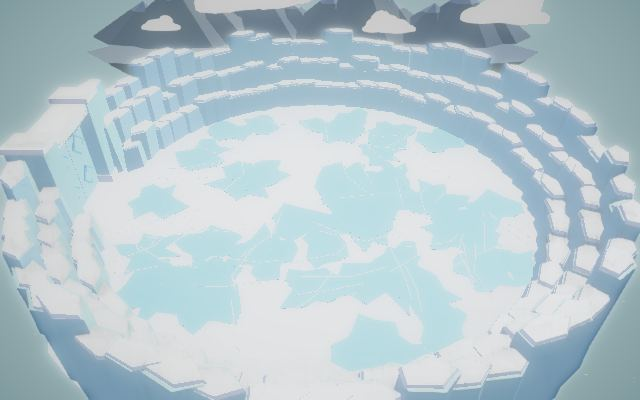
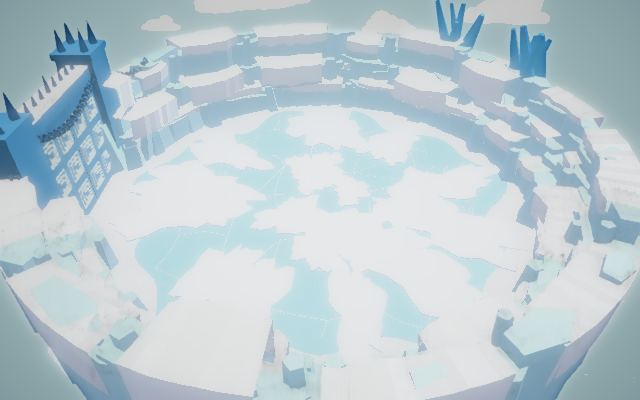
loop(574): maps_2 9/11 gaps approved

diff --git a/loop/STATE.md b/loop/STATE.md
@@ -1,5 +1,5 @@
 # Loop state (v10: maps then stages; two batch audits merged; up to 9 structural/rebuild gaps + 1 eligible polish; fresh CONFIRM before done)
-Iteration: 573   Batch: maps_2   Consecutive empty: 0   Done: 7/99   Parked: 0
+Iteration: 574   Batch: maps_2   Consecutive empty: 0   Done: 8/99   Parked: 0
 Batches, in order: maps_1, maps_2, maps_3, maps_4, stages_introduction, stages_adventure, stages_challenge, stages_dynasty, stages_renaissance, stages_pirate, stages_spooky, stages_simulation, stages_wild_west, stages_legacy, stages_fantasy_good, stages_fantasy_evil
 <!-- Item file template, loop/items/<id>.md (map: map.<id>; stage: <campaign>.<level>):
 # <id>
@@ -17,7 +17,7 @@ Marks below: one per criterion a b c (+ pass, - fail, ? unscored); map a look, b
 
 ## Scoreboard (a b c as + pass, - fail, ? unscored; status q queued, o open, D done, p parked)
 maps_1: tribal_1 +++ D | tribal_2 +++ D | tribal_sandbox +++ D | farmer_1 +++ D | farmer_2 +++ D | farmer_snow +++ D
-maps_2: medieval_1 +++ D | medieval_2 -++ o | ancient_1 --+ o | ancient_2 +-+ o | ancient_sandbox -++ o | viking +-+ o | viking_sandbox -++ o
+maps_2: medieval_1 +++ D | medieval_2 -++ o | ancient_1 --+ o | ancient_2 -++ o | ancient_sandbox -++ o | viking +-+ o | viking_sandbox +++ D
 maps_3: dynasty ??? q | renaissance ??? q | pirate ??? q | spooky_1 ??? q | spooky_2 ??? q | wild_west ??? q | legacy ??? q
 maps_4: fantasy_good ??? q | fantasy_evil ??? q | simulation ??? q | bridge ??? q | hill ??? q | corridor ??? q | defend_the_castle ??? q | high_ground ??? q | low_ground ??? q
 stages_introduction: clubs ??? q | army ??? q | hay_and_pitchforks ??? q | basic_formation ??? q | ice_archers_only_almost ??? q | longships ??? q
@@ -33,52 +33,59 @@ stages_legacy: siege ??? q | a_tank ??? q | the_war ??? q | thor_s_battle ??? q
 stages_fantasy_good: colossal_spike ??? q | royal_archers ??? q | clash_of_warriors ??? q | chaotic_cavalry ??? q | vicious_terror ??? q | fortified_formation ??? q
 stages_fantasy_evil: encircling_tribe ??? q | raze_the_homestead ??? q | farmer_uprising_evil ??? q | storm_the_fortress ??? q | blasted_skirmish ??? q | dismantle_the_spears ??? q
 
-## Focus (iter 573: maps_1+maps_2, 9 [S] + 1 [R]; BASE 509a4b40 after evidence 509a4b40 (ancient_1 battle pose))
-- [R] map.farmer_snow.a blockers 1-3 lavender snow, corner trees, slate band (94ecffc7+cd93dfb2) APPROVE, struck a1-a3 (a PASS; CONFIRM passed: D)
-- [S] map.viking.b blocker 2 raised snowbanks (264fb953) APPROVE, no strike
-- [S] map.viking.a blocker 5 ice underside (c44dc74a) APPROVE, struck a5
-- [S] map.viking.a blocker 6 frozen waterfall (f74d311d) APPROVE, struck a6 (a PASS; CONFIRM passed a, b)
-- [S] map.ancient_sandbox.b blocker 1 outer shelves and headlands (d11426f4) APPROVE, struck b1
-- [S] map.ancient_sandbox.b blocker 4 offshore islets (b82dd7b7) APPROVE, struck b4 (b PASS; CONFIRM passed b, failed a)
-- [S] map.ancient_2.b blocker 1 world-space remap (f5374621) dropped: shelf unchanged, reverted 8231cf32
-- [S] map.ancient_2.a blocker 4 earth drum (cc91f4d4) APPROVE, struck a4
-- [S] map.ancient_2.a blocker 5 gate pavilions (0f5ada56) APPROVE, struck a5 (a PASS, pending CONFIRM)
-- [S] map.ancient_1.a blocker 1 clear blue sky (61adfc2c) APPROVE, struck a1
-- 9/10, 10 struck
+## Focus (iter 574: maps_2, 9 [S] + 1 [P] + 1 [R]; BASE ae94bb09 after evidence ae94bb09 (ancient_1 battle framed on the player army))
+- [S] map.ancient_2.b blocker 1 floor trim via fresh buffer, lawn out of glow (4f1be279+bff14f83) APPROVE, struck b1
+- [S] map.ancient_2.b blocker 4 open front propylon (15c6c224) APPROVE, struck b4 (b PASS; CONFIRM passed b, failed a)
+- [S] map.ancient_sandbox.a blocker 1 clear sky (a472ad38) APPROVE, struck a1
+- [S] map.ancient_sandbox.a blocker 3 sandstone rocks and steps (ae0499eb) APPROVE, struck a3
+- [S] map.ancient_sandbox.a blocker 5 hazy graded sea (452ef25d+7ac51041) APPROVE, struck a5
+- [S] map.ancient_1.b blocker 1 outer house rows (536b4f76) APPROVE, struck b1, b3, b5
+- [S] map.ancient_1.a blocker 3 separate houses and alley stairs (422bf815) APPROVE, struck a3 and b2
+- [S] map.ancient_1.a blocker 2 flagstone paving (e03012d5+e3d80f84) APPROVE, struck a2; added a7 (too dark)
+- [S] map.viking.b blocker 2 bank face and shore rocks (fdb5043b) REJECT, reverted 3e63a5aa
+- [P] map.viking.b blocker 2 BANK.top 4.5 (dc64fad6) REJECT, reverted 8e0d0a0c
+- [R] map.viking_sandbox.a blockers 1-3 gate, skyline, floor (ef7ca1e5) APPROVE, struck a1-a3 (CONFIRM passed: D)
+- 9/11, 14 struck
 
 ## Last verdicts (critic header lines verbatim)
-GAP: [R] map.farmer_snow (94ecffc7 + cd93dfb2)
+GAP: [S] map.ancient_2 (4f1be279 + bff14f83)
 VERDICT: APPROVE
-CRITERION: map.farmer_snow.a PASS   (previous: FAIL)
-GAP: [S] map.viking (264fb953)
+CRITERION: map.ancient_2.b FAIL   (previous: FAIL)
+GAP: [S] map.ancient_2 (15c6c224)
 VERDICT: APPROVE
-CRITERION: map.viking.b FAIL   (previous: FAIL)
-GAP: [S] map.viking (c44dc74a)
+CRITERION: map.ancient_2.b PASS   (previous: FAIL)
+GAP: [S] map.ancient_sandbox (a472ad38)
 VERDICT: APPROVE
-CRITERION: map.viking.a FAIL   (previous: FAIL)
-GAP: [S] map.viking (f74d311d)
+CRITERION: map.ancient_sandbox.a FAIL   (previous: FAIL)
+GAP: [S] map.ancient_sandbox (ae0499eb)
 VERDICT: APPROVE
-CRITERION: map.viking.a PASS   (previous: FAIL)
-GAP: [S] map.ancient_sandbox (d11426f4)
+CRITERION: map.ancient_sandbox.a FAIL   (previous: FAIL)
+GAP: [S] map.ancient_sandbox (452ef25d + 7ac51041)
 VERDICT: APPROVE
-CRITERION: map.ancient_sandbox.b FAIL   (previous: FAIL)
-GAP: [S] map.ancient_sandbox (b82dd7b7)
+CRITERION: map.ancient_sandbox.a FAIL   (previous: FAIL)
+GAP: [S] map.ancient_1 (536b4f76)
 VERDICT: APPROVE
-CRITERION: map.ancient_sandbox.b PASS   (previous: FAIL)
-GAP: [S] map.ancient_2 (cc91f4d4)
-VERDICT: APPROVE
-CRITERION: map.ancient_2.a FAIL   (previous: FAIL)
-GAP: [S] map.ancient_2 (0f5ada56)
-VERDICT: APPROVE
-CRITERION: map.ancient_2.a PASS   (previous: FAIL)
-GAP: [S] map.ancient_1 (61adfc2c)
+CRITERION: map.ancient_1.b FAIL   (previous: FAIL)
+GAP: [S] map.ancient_1 (422bf815)
 VERDICT: APPROVE
 CRITERION: map.ancient_1.a FAIL   (previous: FAIL)
-REGRESSIONS: none
+GAP: [S] map.ancient_1 (e03012d5 + e3d80f84)
+VERDICT: APPROVE
+CRITERION: map.ancient_1.a FAIL   (previous: FAIL)
+GAP: [S] map.viking (fdb5043b)
+VERDICT: REJECT
+CRITERION: map.viking.b FAIL   (previous: FAIL)
+GAP: [P] map.viking (dc64fad6)
+VERDICT: REJECT
+CRITERION: map.viking.b FAIL   (previous: FAIL)
+GAP: [R] map.viking_sandbox (ef7ca1e5)
+VERDICT: APPROVE
+CRITERION: map.viking_sandbox.a PASS   (previous: FAIL)
+REGRESSIONS: map.viking.a (PASS) -> attributed to fdb5043b and dc64fad6 (both reverted)
 
 ## Notes for next iteration (max 5 lines)
-- 573: 82+ shots, zero page errors, all script checks pass; maps_1 checkpoint: regression 12/12 GREEN, all 17 maps_1 stages re-judged a+c PASS. Farmer Snow done (CONFIRM passed a); maps_1 closed.
-- [R] queue (plateau, oldest first): Viking Sandbox a, then Medieval 2 a. Viking b needs its bank to read from the top shot (shaded face, shore rocks).
-- Ancient 2: find which mesh is the green apron past the wall with a probe before retrying b1 (the 573 world-space remap of ground/islandShelf changed nothing). Its a PASS awaits CONFIRM.
-- Ancient 1 evidence first: the battle shot (509a4b40) looks down the south street but misses the skirmish armies (zones x +-40): re-aim it onto an army on a street before picking on b.
-- Ancient Sandbox CONFIRM 573 failed a (beige sky, lawn too saturated, front boulder row, cloud over island, sea too saturated): that list is now a's blockers.
+- 574: 65 shots, zero page errors, all script checks pass (viking re-shot alone after the reverts). Viking Sandbox done (CONFIRM passed a).
+- [R] slot: Medieval 2 a (plateau, waiting since 572) takes it next iteration.
+- Viking b: bankFace went near black (normals/double-sided, weak emissive); retry with upward normals and pale vertex colours, BANK.top stays 2.4.
+- Ancient 2 a now carries the 574 CONFIRM list (beige sky, far mountains, flat temple grid, lime grass); b PASS confirmed.
+- Capture --add for map.viking also wipes map_viking_sandbox_* (filename prefix match): re-shoot both together (574 did).

diff --git a/loop/LEDGER.md b/loop/LEDGER.md
@@ -3,34 +3,7 @@
 Rows: `file:identifier | value | last iter | verdict | earlier values`. P: no approved reversal within 20 iterations; two failed polish attempts spend a row. S/R replace mechanisms. The unit phase's ledger is `loop/archive/v4/LEDGER.md`.
 
 ## Structural attempts (iter | sha | item.criterion | verdict)
-568 | 45084eee | map.tribal_sandbox.a | approved, struck a1
-568 | ee8ea992 | map.tribal_sandbox.a | approved, struck a2
-568 | d8ff6642 | map.tribal_sandbox.a | approved, struck a3
-568 | 0c5f8a08 | map.farmer_snow.a | approved, struck a3
-568 | a7c6dc9f | map.farmer_snow.a | approved, struck a4
-568 | da540cdb | map.viking_sandbox.a | approved, struck a5
-568 | 3da0c3ba | map.viking_sandbox.b | approved, struck b1
-568 | 7b27f51b | map.medieval_1.a | approved, struck a4
-568 | 6d892fbe | map.medieval_2.a | approved, struck a4
-569 | 6ddcdd19 | map.farmer_snow.a | approve, struck a5
-569 | eb3c33ae+16dc5699 | map.viking_sandbox.a | approve, struck a1
-569 | b5799593 | map.viking_sandbox.a | approve, struck a2
-569 | 2be8528a | map.viking_sandbox.a | approve, struck a3
-569 | 489d2940 | map.medieval_2.a | approve, struck a3
-569 | 41c29446 | map.medieval_2.b | approve, struck b4
-569 | 8c56cdf8 | map.medieval_2.a | approve, struck a5
-569 | 18cc0f35 | map.medieval_1.b | approve, struck b4
-569 | cdefcfc1 | map.medieval_1.a | approve, struck a3
-570 | 1371524f+24937b53 [R] | map.farmer_snow.a | approve, struck a2
-570 | 48dacf98+59b30f57 | map.medieval_1.a | approve, struck a5
-570 | 9767224d+8b7cf263+7094ea34 | map.medieval_1.b | approve, struck b5
-570 | 2980c8ce+ca101d74 | map.medieval_1.a | approve
-570 | 4e079a16 | map.medieval_2.b | approve, struck b1
-570 | 4df6e5f8 | map.medieval_2.a | approve, struck a2
-570 | 1a2024e4 | map.ancient_1.a | approve, struck a3
-570 | 18a7b03b | map.ancient_2.b | approve
-570 | c8566daa | map.ancient_sandbox.b | approve, struck b2
-570 | 23af4ed0 | map.viking.a | approve, struck a2
+570 | 10 commits (farmer_snow R, medieval_1 x3, medieval_2 x2, ancient_1, ancient_2, ancient_sandbox, viking) | all approve, struck fs a2, m1 a5 b5, m2 b1 a2, a1 a3, as b2, v a2
 571 | 2c30c0f9 | map.medieval_1.a | approve, struck a6 (a PASS; CONFIRM passed)
 571 | b3ebd6d4 | map.medieval_2.a | approve, struck a1
 571 | c12b2649 | map.medieval_2.a | approve
@@ -61,6 +34,16 @@ Rows: `file:identifier | value | last iter | verdict | earlier values`. P: no ap
 573 | cc91f4d4 | map.ancient_2.a | approve, struck a4
 573 | 0f5ada56 | map.ancient_2.a | approve, struck a5
 573 | 61adfc2c | map.ancient_1.a | approve, struck a1
+574 | 4f1be279+bff14f83 | map.ancient_2.b | approve, struck b1
+574 | 15c6c224 | map.ancient_2.b | approve, struck b4 (b PASS; CONFIRM passed b, failed a)
+574 | a472ad38 | map.ancient_sandbox.a | approve, struck a1
+574 | ae0499eb | map.ancient_sandbox.a | approve, struck a3
+574 | 452ef25d+7ac51041 | map.ancient_sandbox.a | approve, struck a5
+574 | 536b4f76 | map.ancient_1.b | approve, struck b1, b3, b5
+574 | 422bf815 | map.ancient_1.a | approve, struck a3 and b2
+574 | e03012d5+e3d80f84 | map.ancient_1.a | approve, struck a2; added a7
+574 | fdb5043b | map.viking.b | reject (bank face near black; reverted)
+574 | ef7ca1e5 [R] | map.viking_sandbox.a | approve, struck a1-a3 (CONFIRM passed: D)
 
 ## Tuned values
 web/src/map/tabs/farmer_2.ts:wheatField stalk height, step | 0.65-0.8 m, 0.75 m | 564 | approved | 0.5-0.7 m, 0.9 m; 1.0-1.3 m
@@ -127,7 +110,11 @@ web/src/map/tabs/viking.ts:winterHaze | clear (0.58,0.86,0.91), 320 flakes, mist
 web/src/map/tabs/ancient_1.ts:BANDS and STREETS | three bands x -24..24 (z -19/0/19, depth 14/16/14), streets z +-10 4 m wide | 572 | approved (CONFIRM failed b: reads as fused slab) | 2x3 blocks at x +-15
 web/src/map/tabs/ancient_1.ts:lighthouse and pebbledUnderside | 14 m octagonal tower at (-42,46); two slabs 7 m + 6 m inset, pebbles every 3.5 m | 572 | approved | absent; 11 m box slab
 web/src/map/tabs/ancient_2.ts:ringWall | 72 segments r 49.6, 1.5 m high, beige (0.78,0.68,0.5), 6 cypress clusters; ring trees removed | 572 | approved, struck a3 | autumn tree ring
-web/src/map/tabs/viking.ts:BANK, UNDER, FALL | bank 2.4 m smoothstep over 5 m past lake edge (height field); ice bowl to -26 m; crag+cascade at (0,44) | 573 | approved; bank unseen from top | absent
+web/src/map/tabs/viking.ts:BANK, UNDER, FALL | bank 2.4 m smoothstep over 5 m past lake edge (height field); ice bowl to -26 m; crag+cascade at (0,44) | 574 | top 4.5 m rejected (P 574, attempts 1); 2.4 kept | absent
+web/src/map/tabs/ancient_2.ts:crispRim and frontPropylon | floor trimmed to r 50.3 via setVerticesData, lawn out of glow; propylon 8.4 x 5.4 m at 250 deg, r 49 | 574 | approved, b PASS | apron; solid gabled box
+web/src/map/tabs/ancient_sandbox.ts:clearSky, frontSandstone, hazySea | clear (0.3,0.6,0.88) fog (0.66,0.8,0.93); 5 sandstone clusters + 2 step flights, hazeTreeline hidden; vertex-graded sea (0.3,0.55,0.76)->(0.66,0.8,0.93) | 574 | approved, struck a1 a3 a5 | beige; dark boulder chain; royal-blue disc
+web/src/map/tabs/ancient_1.ts:outerRows, houses, flagstones | 2 houses per long-wall row end x 28.5..52; 9.8 m houses with 2.2 m alleys; pavement 0.27 matte + jittered white lines | 574 | approved; pavement too dark (a7) | bands only; fused slab; (0.53,0.56,0.62) + seam grid
+web/src/map/tabs/viking_sandbox.ts:runeGate, rimCrystals, floor (R) | gate 24 x 21 m steel-teal (0.24,0.5,0.64), towers 25 m; columns 0.94-1.02 tier; crystals at 28/50 deg; ice 0.72 R, 12+12 drifts 0.25 m | 574 | approved, D | 18.7 m pillars; columns 1.2-1.45x; 5 rim peaks; ice 0.8 R, 9+7 drifts
 web/src/map/tabs/ancient_sandbox.ts:SHELVES and ISLETS | 10 lobes 9-25 m out, tops -2.5..-7; 5 islets 75-150 m out | 573 | approved, b PASS | absent
 web/src/map/tabs/ancient_2.ts:earthDrum and PAVILIONS | drum r 51 to -17 m, 110 stones; pavilions at 188/250/320 deg | 573 | approved, a PASS | navy slab; absent
 web/src/map/tabs/ancient_1.ts:clearSky | clear (0.3,0.6,0.88), fog (0.66,0.8,0.93) | 573 | approved | inherited beige

diff --git a/loop/items/map.ancient_1.md b/loop/items/map.ancient_1.md
@@ -1,20 +1,25 @@
 # map.ancient_1
 Status: open   Audited: 562 (AUDIT x2), 572 (CONFIRM: passed none; failed a, b)   Done: -
 ## Verdicts
-a FAIL (573: struck 1): 2. pale lavender-blue tinted street ground in map_ancient_1_top — TABS: mid-grey paving split by white flagstone lines (ref: reference/maps/wiki/ancient_1.png) 3. town drawn as one fused white slab with domes on top in map_ancient_1_top — TABS: separate whitewashed houses with flat roofs, stairs and blue doors/shutters (ref: reference/maps/wiki/ancient_1.png) 4. thin blue rail edging the field in map_ancient_1_island — TABS: low white parapet wall with blue tile coping (ref: reference/maps/wiki/ancient_1.png) 5. lone grass tufts at the field corners in map_ancient_1_top — TABS: cypress clusters in raised white planters along the wall (ref: reference/maps/wiki/ancient_1.png) 6. bare streets and rooftops in map_ancient_1_ground — TABS: pots, barrels, pink-blossom and olive shrubs dressing roofs and lanes (ref: reference/maps/wiki/ancient_1.png)
-b FAIL (0 since 572): 1. building block confined to the centre third with wide empty plazas on both ends in map_ancient_1_top — TABS: houses fill the length of the rectangle in long rows (ref: reference/maps/wiki/ancient_1.png) 2. no narrow lengthwise streets between the building rows in map_ancient_1_top — TABS: two 3-4-unit-wide streets link the left and right halves (ref: loop/cards/maps/ancient_1.md Overview) 3. low camera sees only rooftops, no street to fight on, in map_ancient_1_battle — TABS: armies stand on grey paved streets between house fronts (ref: reference/stages/dynasty.zeus_and_other_folks.png) 4. harbour water only a small pond on a detached rock slab behind the field in map_ancient_1_top — TABS: blue bay cutting into one corner of the island beside the statue headland (ref: reference/maps/wiki/ancient_1.png) 5. rooftop stairs barely visible as one thin ladder in map_ancient_1_top — TABS: broad stair flights up the building sides onto the roofs (ref: reference/stages/introduction.basic_formation.png)
-c PASS (573 judge)
+a FAIL (574: struck 2, 3): 4. thin blue rail edging the field in map_ancient_1_island — TABS: low white parapet wall with blue tile coping (ref: reference/maps/wiki/ancient_1.png) 5. lone grass tufts at the field corners in map_ancient_1_top — TABS: cypress clusters in raised white planters along the wall (ref: reference/maps/wiki/ancient_1.png) 6. bare streets and rooftops in map_ancient_1_ground — TABS: pots, barrels, pink-blossom and olive shrubs dressing roofs and lanes (ref: reference/maps/wiki/ancient_1.png) 7. dark navy-charcoal paving across map_ancient_1_top — TABS: light-mid grey paving (ref: reference/maps/wiki/ancient_1.png)
+b FAIL (574: struck 1, 2, 3, 5): 4. harbour water only a small pond on a detached rock slab behind the field in map_ancient_1_top — TABS: blue bay cutting into one corner of the island beside the statue headland (ref: reference/maps/wiki/ancient_1.png)
+c PASS (574 judge)
 
 ## Ranked gaps
-1. [S] a — fused town slab — blocker 3: separate whitewashed houses with gaps, flat roofs, blue doors and shutters, stair flights — ref: reference/maps/wiki/ancient_1.png — ours: map_ancient_1_top.png
-2. [S] b — houses fill the length — blocker 1: house rows run the full length, zones (x >= 29) clear — ref: reference/maps/wiki/ancient_1.png — ours: map_ancient_1_top.png
-3. [S] a — paving — blocker 2: mid-grey paving, white flagstone lines — ours: map_ancient_1_top.png
+1. [S] b — harbour bay — blocker 4: cut a blue bay into the back-left corner of the town slab beside the statue headland, inside the island outline (bayHeadland) — ref: reference/maps/wiki/ancient_1.png — ours: map_ancient_1_top.png
+2. [S] a — cypress planters — blocker 5: 3-5 tall cypress cones in raised rectangular white planters along the wall — ref: reference/maps/wiki/ancient_1.png — ours: map_ancient_1_top.png
+3. [P] a — paving tone — blocker 7: flagstones pavement diffuse 0.27 -> 0.4 (fallout of e03012d5, 574), shows in map_ancient_1_top and map_ancient_1_battle — ref: reference/maps/wiki/ancient_1.png
 
 ## Attempts (iter | gap | criterion | verdict)
 566-572 | [S] slab, streets, houses, wall, planters, bay, statue, lighthouse, underside | a, b | 8 APPROVE; CONFIRM 572 failed a, b
 573 | [S] clear blue sky and haze (61adfc2c) | a | APPROVE, struck a1
+574 | [S] outer house rows along the long walls (536b4f76) | b | APPROVE, struck b1, b3, b5
+574 | [S] separate houses, alleys, alley stairs (422bf815) | a | APPROVE, struck a3 and b2
+574 | [S] irregular flagstone paving (e03012d5+e3d80f84) | a | APPROVE, struck a2; added a7 (too dark)
+
 ## Rejected (last 4)
 
 ## Notes (max 3 lines)
-- Stages: introduction.basic_formation, adventure.final_destination_wheelbarrow, dynasty.zeus_and_other_folks, fantasy_evil.blasted_skirmish (enemies x >= 29).
-- Evidence 573: battle shot looks down the south street but misses the armies (zones x +-40, z 0); b3 stands. Re-aim onto an army.
+- Stages: introduction.basic_formation, adventure.final_destination_wheelbarrow, dynasty.zeus_and_other_folks, fantasy_evil.blasted_skirmish (enemies x 29..40.5, |z| <= 18: houses stay out of |x| >= 25 within |z| < 21).
+- Evidence 574 (ae94bb09): battle shot frames the player army's box from an elevated diagonal.
+- Critic 574: outer houses plain boxes; domes sit on ordinary roofs (TABS: churches with octagonal drums).

diff --git a/loop/items/map.ancient_2.md b/loop/items/map.ancient_2.md
@@ -1,24 +1,25 @@
 # map.ancient_2
-Status: open   Audited: 562 (AUDIT x2)   Done: -
+Status: open   Audited: 562 (AUDIT x2), 574 (CONFIRM: passed b; failed a)   Done: -
 ## Verdicts
-a PASS (573: struck 4, 5; pending CONFIRM)
-b FAIL (567: struck 3): 1. Island outline in map_ancient_2_top is a rounded rectangle — TABS: circular disc (ref: reference/maps/wiki/ancient_2.png) 4. Front gate pavilion on the centre line absent in map_ancient_2_island — TABS: columned gate at the front wall (ref: reference/maps/greek_ancient_2.png)
-c PASS (573 judge)
+a FAIL (0 since 574; CONFIRM failed 1x): 1. Flat beige/tan sky behind the island in map_ancient_2_island — TABS: pale blue sky with white puffy clouds (ref: reference/maps/greek_ancient_2.png) 2. Grey low-poly mountain range rising behind the temple complex in map_ancient_2_island — TABS: no mountains, the complex itself is the only mass against open sky (ref: reference/maps/greek_ancient_2.png) 3. Temple complex as two low terraces of identical small temples in an even grid in map_ancient_2_island — TABS: a tall, dense, tangled mound of temples, stairs, columns and overgrown green-topped terraces climbing to a crowning temple, the highest thing on the island (ref: reference/maps/wiki/ancient_2.png) 4. Saturated lime grass in map_ancient_2_ground — TABS: muted olive/yellow-green meadow (ref: reference/stages/renaissance.renaissance_vs_ancient_2.png)
+b PASS (574: struck 1, 4; CONFIRM 574)
+c PASS (574 judge)
 
 ## Ranked gaps
-1. [S] b — green apron past the wall — blocker 1: grass top and slabs trimmed to the 51 m wall circle (find the mesh that projects first; the 573 world-space remap of ground/islandShelf changed nothing) — ref: reference/maps/wiki/ancient_2.png — ours: map_ancient_2_top.png
-2. [S] b — open front gate — blocker 4: open columned propylon at the 250-degree path end, the path running through it — ref: reference/maps/greek_ancient_2.png — ours: map_ancient_2_island.png
+1. [S] a — sky — blocker 1: clear mid-blue sky and pale haze (as ancient_1/ancient_sandbox clearSky) — ref: reference/maps/greek_ancient_2.png — ours: map_ancient_2_island.png
+2. [S] a — mountains — blocker 2: hide the base far range (mountainBase/Cap/Root) — ref: reference/maps/greek_ancient_2.png — ours: map_ancient_2_island.png
+3. [S] a — temple mound — blocker 3: taller stepped mound with varied temples and green-topped terraces up to a crowning temple — ref: reference/maps/wiki/ancient_2.png — ours: map_ancient_2_island.png
 
 ## Attempts (iter | gap | criterion | verdict)
 565-567 | [S] own builder, temples, stair, statues; field cleared; crossing paths | a, b | 3 APPROVE struck a2, b2, b3, b5
-570 | [S] circular temple island outline (18a7b03b) | b | APPROVE
-571 | [S] green lawn with clumps and pink-violet flower drifts (b70ca30a) | a | APPROVE, struck a1
-572 | [S] low beige plastered ring wall with cypress clusters (ed751363) | a | APPROVE, struck a3
-573 | [S] world-space remap of the top onto the 51 m circle (f5374621) | b | dropped (shelf unchanged in the shots; reverted 8231cf32)
-573 | [S] brown earth drum with grey stones (cc91f4d4); gate pavilions at the path ends (0f5ada56) | a | 2 APPROVE, struck a4, a5 (a PASS)
+570-572 | [S] circular outline (18a7b03b); lawn (b70ca30a); ring wall (ed751363) | a, b | 3 APPROVE, struck a1, a3
+573 | [S] world-space remap (f5374621) | b | dropped (GPU kept the old buffer)
+573 | [S] earth drum (cc91f4d4); gate pavilions (0f5ada56) | a | 2 APPROVE, struck a4, a5 (a PASS)
+574 | [S] floor trim re-uploaded, lawn out of glow (4f1be279+bff14f83) | b | APPROVE, struck b1
+574 | [S] open front propylon (15c6c224) | b | APPROVE, struck b4 (b PASS); CONFIRM passed b, failed a
 
 ## Rejected (last 4)
 
 ## Notes (max 3 lines)
 - Stages on it: challenge.zeus, renaissance.renaissance_vs_ancient_2 (team 1 at x 29..37, |z| <= 18; the complex starts at z 24).
-- Critic 573: front gate a solid gabled box the path stops at. Critic 572: wall plain, TABS has darker panel inlays. Critic 571: lawn paler lime than TABS olive.
+- Critic 574: zone overlay rectangles stick out past the disc in top/island; gate plaster near white. Critic 572: wall plain.

diff --git a/loop/items/map.ancient_sandbox.md b/loop/items/map.ancient_sandbox.md
@@ -1,23 +1,23 @@
 # map.ancient_sandbox
 Status: open   Audited: 562 (AUDIT x2), 573 (CONFIRM: passed b; failed a)   Done: -
 ## Verdicts
-a FAIL (0 since 573; CONFIRM failed 1x): 1. beige-khaki overcast sky filling the top of map_ancient_sandbox_ground.png — TABS: bright mid-blue sky with white puffy clouds (ref: reference/maps/greek_ancient_sandbox.png) 2. saturated mid-green lawn across map_ancient_sandbox_ground.png — TABS: yellow-olive green grass (ref: reference/maps/wiki/ancient_sandbox.png) 3. row of dark brown boulders lining the front edge of the field in map_ancient_sandbox_island.png — TABS: the front edge is open grass with pale sandstone rocks, ruins and steps (ref: reference/maps/greek_ancient_sandbox.png) 4. large white cloud mass covering the lower right of the island in map_ancient_sandbox_island.png — TABS: clouds stay in the sky and the island and its cliffs are unobstructed (ref: reference/maps/greek_ancient_sandbox.png) 5. flat saturated royal-blue sea with an orange glowing islet on the horizon in map_ancient_sandbox_ground.png — TABS: pale hazy blue-grey sea fading into mist, with muted distant islets (ref: reference/maps/greek_ancient_sandbox.png)
+a FAIL (574: struck 1, 3, 5): 2. saturated mid-green lawn across map_ancient_sandbox_ground.png — TABS: yellow-olive green grass (ref: reference/maps/wiki/ancient_sandbox.png) 4. large white cloud mass covering the lower right of the island in map_ancient_sandbox_island.png — TABS: clouds stay in the sky and the island and its cliffs are unobstructed (ref: reference/maps/greek_ancient_sandbox.png)
 b PASS (573: struck 1, 4; CONFIRM 573)
-c PASS (573 judge)
+c PASS (574 judge)
 
 ## Ranked gaps
-1. [S] a — sky — blocker 1: clear mid-blue sky and pale haze (as ancient_1's clearSky) — ref: reference/maps/greek_ancient_sandbox.png — ours: map_ancient_sandbox_ground.png
-2. [S] a — front boulder row — blocker 3: inherited dark boulder chain on the front rim replaced by pale sandstone rocks and steps — ref: reference/maps/greek_ancient_sandbox.png — ours: map_ancient_sandbox_island.png
-3. [S] a — sea and islets — blocker 5: hazy blue-grey sea fading to mist, islets darker with green tops — ref: reference/maps/greek_ancient_sandbox.png — ours: map_ancient_sandbox_ground.png
+1. [S] a — lawn palette — blocker 2: yellow-olive field floor and grass flecks — ref: reference/maps/wiki/ancient_sandbox.png — ours: map_ancient_sandbox_ground.png
+2. [S] a — cloud off the island — blocker 4: remove or raise the low "cloud" mesh in front of the island's lower right — ref: reference/maps/greek_ancient_sandbox.png — ours: map_ancient_sandbox_island.png
 
 ## Attempts (iter | gap | criterion | verdict)
 563-566 | [S] own builder: terracotta cliffs, sea, junk removed, meadow, clay paths | a, b | 5 APPROVE struck a1, a4, a5, b5
 570-572 | [S] temple hills, ruins, spiral mountain, hamlets and cypresses | a, b | 4 APPROVE struck a2, a3, a6, b2, b3
-573 | [S] outer green shelves and headlands (d11426f4); offshore islets (b82dd7b7) | b | 2 APPROVE, struck b1, b4 (b PASS); CONFIRM passed b, failed a
+573 | [S] outer shelves and headlands (d11426f4); offshore islets (b82dd7b7) | b | 2 APPROVE, struck b1, b4 (b PASS); CONFIRM failed a
+574 | [S] clear sky (a472ad38); sandstone rocks and steps (ae0499eb); hazy graded sea (452ef25d+7ac51041) | a | 3 APPROVE, struck a1, a3, a5
 
 ## Rejected (last 4)
 
 ## Notes (max 3 lines)
 - No stages fought on it. Base is campaign.challenge (shared): dress it in tabs/ancient_sandbox.ts only.
-- Critic 573: islets bright orange pots with little green; field inside still a rounded rectangle with an orange rim line.
-- Critic 572: houses bare cubes; spiral tower too smooth. Critic 571: ruin pieces slender.
+- Critic 574: islets render slate-violet (fog them); near sea lower left still saturated with cyan lagoon edge; steps read as boxes on the cliff face.
+- Critic 573: field inside still a rounded rectangle with an orange rim line. Critic 572: houses bare cubes.

diff --git a/loop/LESSONS.md b/loop/LESSONS.md
@@ -40,12 +40,12 @@ Read at step 1; one fact a line, merge near cap. The unit phase's rig and dress 
 - Round island (560): base lawn ("ground", "centerGrass") and underside slabs follow islandRim (superellipse 54 x 48, power 3); remap vertices radially by newR/oldR. fieldBlades_* are plain vertex meshes (4 per blade): collapse a quad past the rim onto its first vertex. hazeTreeline is one merged mesh: hide it whole. Base trunks are unparented (crowns are their children); skip disabled trunks.
 - Scene fog is linear and re-keyed every frame by main.ts (fogStart/End from the camera radius): a map's fogDensity does nothing. Draw haze instead (inside-facing translucent mist walls, viking 572).
 - Farmer base ring trees are oaks (mapBuilder oakRing: "canopy" disabled, crowns are "oakCrown" lumps on oakLeaves/oakLeavesDark): recolour those, not canopy (561). A raised drawn-only set piece (bridge hump) can carry units via MapBuildResult.height (farmer_1 bridgeHeight).
-- A ribbon's facing follows its path order: with backFaceCulling off a down-facing deck renders black; check the first normal after convertToFlatShadedMesh and flipFaces(true) when wrong (561). An underside facing away from the sun needs self-light ~1x its colour or it reads near black.
+- A ribbon's facing follows its path order: with backFaceCulling off a down-facing deck renders black; check the first normal after convertToFlatShadedMesh and flipFaces(true) when wrong (561; viking bankFace 574 went near black). An underside facing away from the sun needs self-light ~1x its colour or it reads near black.
 - Read stage armies from the stage files, not from Notes: tribal_2's "team 1 at x <= 40" was really x <= 24.4 (563), which freed 15 m for the massif. The campaign.challenge base's placement zones reach x +-61, past the 54 m rim: a builder that walls the field clips placementZones (centre/size) inside it.
 - Upright tessellation-5/6 cylinders with flat tops read as basalt columns / a palisade from the top shot (tribal_2 massif, viking_sandbox wall, 563 critic+CONFIRM): a rock mass wants heaped faceted boulders or tilted slabs with few flat tops.
 - Stage enemy positions are validated against the map's team-1 zone, hazards and obstacles (game.checkStage): a map change can misplace a stage's army (the checkpoint re-judges every stage on a finished map batch).
 - campaign.challenge base dressing: "wallStone" (dark block row), "boulder", "hayBale", "hill", "stump", pit hazards (campaign_hazard_box_pit overlays) and "<displayName>_box|_cyl|_totem_top" junk. loadMapForCapture needs the "map." prefix. Name what is near a spot with a probe before claiming it gone (564, 565).
-- A mesh you think you reshaped may not be the one showing: ancient_2's world-space remap of ground/islandShelf left the green apron unchanged (573). Probe which mesh projects first.
+- Base meshes have static buffers: updateVerticesData changes only the CPU copy (rays see the new shape, the GPU draws the old). Reshape with setVerticesData (ancient_2 apron, 573-574).
 - Night snow under blue moonlight: warm the diffuse to cancel the light's tint, carry the pale tone in self-light, and drop the field from the glow (farmer_snow 573, CONFIRM passed).
 - Turf caps on cliff columns flicker when their top faces share a plane with the cliff or meadow. Set the cap slightly below the meadow and the shaft top inside the cap (Medieval 1, 567).
 - The sandboxed shell blocks the capture's loopback calls to Vite: run captures with local network access.

diff --git a/loop/items/map.viking.md b/loop/items/map.viking.md
@@ -3,23 +3,23 @@ Status: open   Audited: 562 (AUDIT x2), 573 (CONFIRM: passed a, b)   Done: -
 ## Verdicts
 a PASS (573: struck 5, 6; CONFIRM 573)
 b FAIL (571: struck 3): 2. Snowbanks with pine forest on the sides absent in map_viking_top — TABS: raised snowy shore with pines (ref: reference/stages/introduction.ice_archers_only_almost.png)
-c PASS (573 judge)
+c PASS (574 judge)
 
 ## Ranked gaps
-1. [S] b — bank reads from above — blocker 2: a shaded grey-blue bank face with snow-capped grey rocks along its foot at the lake shore (snowbankSheet) — ref: reference/maps/wiki/viking.png — ours: map_viking_top.png
-2. [P] b — bank height — blocker 2: BANK.top 2.4 to 4.5 m (fallout of 264fb953), shows in map_viking_top.png — ref: reference/stages/introduction.ice_archers_only_almost.png — ours: map_viking_top.png
+1. [S] b — white snowbank that reads from above — blocker 2: bankFace sheet with upward normals (check the first normal; wind or flipFaces), vertex colour white to pale blue (0.75,0.84,0.95) at most, emissive SNOW_SHADE x1.0, shore rocks large enough to show at the bank foot; BANK.top stays 2.4 m — ref: reference/stages/introduction.ice_archers_only_almost.png — ours: map_viking_ground.png, map_viking_top.png
 
 ## Attempts (iter | gap | criterion | verdict)
-565 | [S] own builder; ice lake with crack network, snow banks (4d8db327) | a1 | APPROVE struck a1, b1
-566 | [S] clear inherited obstacles and pits off the lake (1e70afc3) | b4 | APPROVE struck b4
-570 | [S] layered snow pines (23af4ed0) | a | APPROVE, struck a2
-571 | [S] wooden ship locked in the ice by the left shore (d5caaf8b) | b | APPROVE, struck b3 and a4
-572 | [S] cyan blizzard sky, flakes, drawn mist walls (30beeb4b+b35b008f) | a | APPROVE, struck a3
-573 | [S] raised snowbanks under the pines, drawn height (264fb953) | b | APPROVE, no strike (white on white, unshaded)
-573 | [S] faceted white-blue ice underside (c44dc74a); frozen waterfall crag at the back (f74d311d) | a | 2 APPROVE, struck a5, a6 (a PASS); CONFIRM passed a, b
+565-566 | [S] own builder; ice lake, cracks, snow banks; field cleared | a, b | 2 APPROVE struck a1, b1, b4
+570-572 | [S] snow pines; ship in the ice; blizzard sky and mist | a, b | 3 APPROVE, struck a2, a3, a4, b3
+573 | [S] raised snowbanks (264fb953) | b | APPROVE, no strike
+573 | [S] ice underside (c44dc74a); frozen waterfall (f74d311d) | a | 2 APPROVE, struck a5, a6 (a PASS); CONFIRM passed a, b
+574 | [S] shaded bank face and shore rocks (fdb5043b) | b | REJECT (attempts 1): face rendered near black, regressed a
+574 | [P] BANK.top 2.4 -> 4.5 (dc64fad6) | b | REJECT: doubled the dark face
 
 ## Rejected (last 4)
+- 574 [S] fdb5043b bankFace: double-sided vertex-coloured sheet over the ramp renders near black in ground/army shots; rocks unseen (attempts 1)
+- 574 [P] dc64fad6 BANK.top 4.5: a tall dark wall hiding pine trunks (attempts 1)
 
 ## Notes (max 3 lines)
 - Stages on it (8): introduction.ice_archers_only_almost, introduction.longships, challenge.ice_archer_and_friends, challenge.big_brawl, dynasty.viking_army, spooky.breakout, fantasy_good.clash_of_warriors, fantasy_evil.dismantle_the_spears (all enemies x 29..40, |z| <= 18, inside the lake).
-- Critic 573: cascade glows near white (iceMat self-light 0.5 -> 0.3); underside sides drum-like. Critic 572: sky dull grey-teal; mist top edge hard.
+- Critic 573: cascade glows near white (iceMat self-light 0.5 -> 0.3); underside sides drum-like.

diff --git a/loop/items/map.viking_sandbox.md b/loop/items/map.viking_sandbox.md
@@ -1,21 +1,21 @@
 # map.viking_sandbox
-Status: open   Audited: 562 (AUDIT x2), 568 (CONFIRM: passed b; failed a), 569 (CONFIRM: passed b; failed a), 572 (CONFIRM: passed b; failed a)   Done: -
+Status: done   Audited: 562 (AUDIT x2), 568/569/572 (CONFIRM: passed b; failed a), 574 (CONFIRM: passed a)   Done: 574
 ## Verdicts
-a FAIL (0 since 572; plateau, CONFIRM failed 3x): 1. great carved gate in the arena wall, not readable in map_viking_sandbox_top.png — TABS: a tall carved ice gate with spiral rune panels, hung with chains, on the left wall (ref: reference/maps/wiki/viking_sandbox.png) 2. tall free-standing ice obelisks and spikes above the rim in map_viking_sandbox_island.png — TABS: the wall is stepped terraces of columnar ice cliff with a flat snowy top, plus only a few large crystal clusters on one side (ref: reference/maps/winter_viking_sandbox.png) 3. floor snow/ice balance in map_viking_sandbox_top.png: the floor is mostly pale blue ice with small white snow islands — TABS: broad white snow sheets cover much of the floor, with large cracked blue-ice patches showing through, most of it under the walls and in the centre (ref: reference/maps/wiki/viking_sandbox.png)
+a PASS (574: struck 1, 2, 3; CONFIRM 574)
 b PASS (568: CONFIRM; 572 CONFIRM)
-c PASS (572 judge)
+c PASS (574 judge)
 
 ## Ranked gaps
-1. [R] a — gate, skyline, floor balance — blockers 1-3: rebuild from the 571 and 572 CONFIRM lists: a big carved rune gate with chains readable from the top shot, rimPeaks and jutting columns cut so the terraces run level with a few crystal clusters on one side, snow sheets covering about half the floor — ref: reference/maps/wiki/viking_sandbox.png, reference/maps/winter_viking_sandbox.png — ours: map_viking_sandbox_top.png, map_viking_sandbox_island.png
 
 ## Attempts (iter | gap | criterion | verdict)
 563-568 | [S] own builder, ice-cliff wall, junk removed, snow floor, cyan sky, gate, glacier underside, circular arena | a, b | 8 APPROVE struck a1-a5, b1-b4
-569 | [S] fractured shelves, cracked sheet, rim peaks (eb3c33ae+16dc5699, b5799593, 2be8528a) | a | 3 APPROVE struck a1-a3
+569 | [S] fractured shelves, cracked sheet, rim peaks | a | 3 APPROVE struck a1-a3
 571 | [R] plated ice with snow tongues; broken ledges between jutting columns (c47c5fef) | a | APPROVE, struck a1, a2; added a3
-572 | [S] thick ledge caps on ice bodies resting on the tier below (17023fc0) | a | APPROVE, struck a3 (a PASS); CONFIRM failed a
+572 | [S] thick ledge caps on ice bodies (17023fc0) | a | APPROVE, struck a3; CONFIRM failed a
+574 | [R] level terraces + one-side crystal clusters, carved rune gate with chains, half-snow floor (ef7ca1e5) | a | APPROVE, struck a1-a3 (a PASS); CONFIRM passed a: D
 
 ## Rejected (last 4)
 
 ## Notes (max 3 lines)
 - Pirate Arrows and Arrow uses x 29..36, |z| <= 10. Placement zones are clipped to |x| <= 44.
-- Critic 571: snow islands read as flat decals with no lip. Critic 572: cap faces lavender-grey.
+- Critic 574: gate steel-blue stands out from the wall; crystals thin prisms; front rim reads as white battlement slabs.
